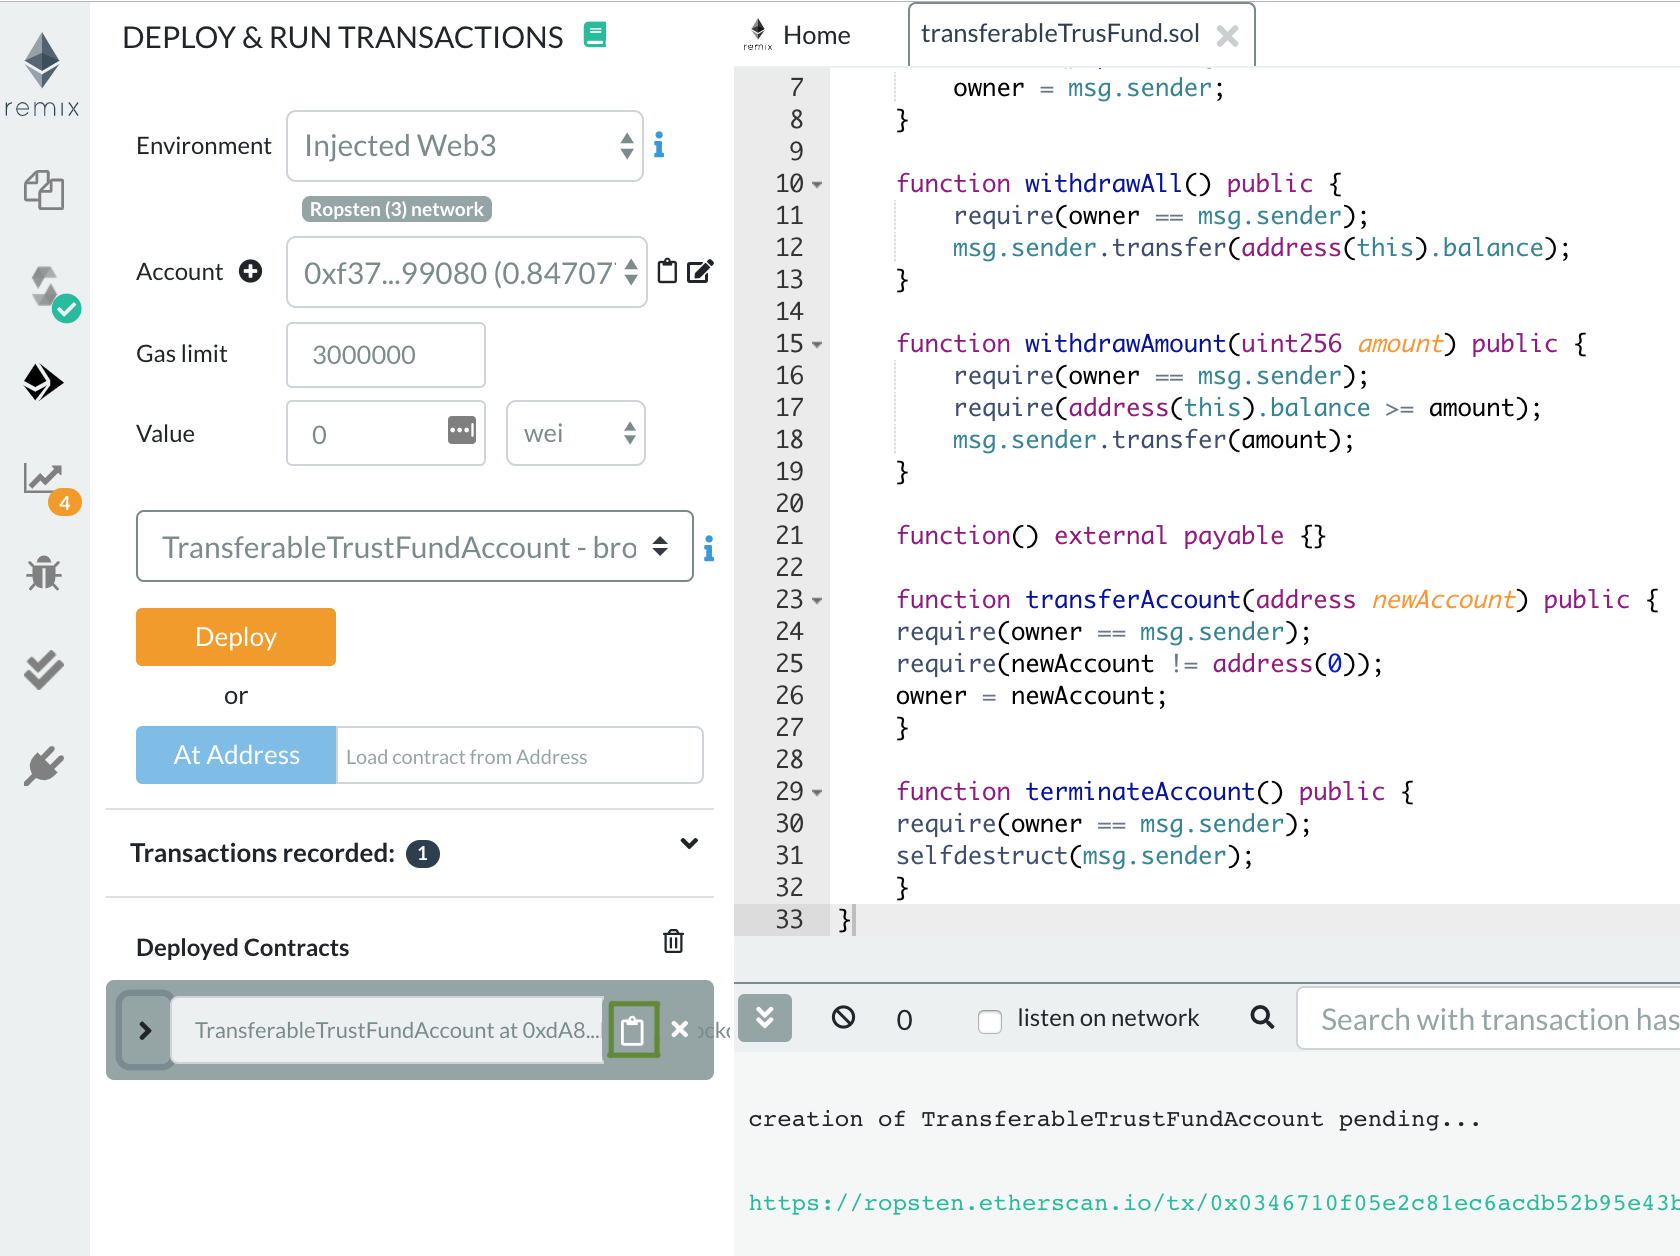
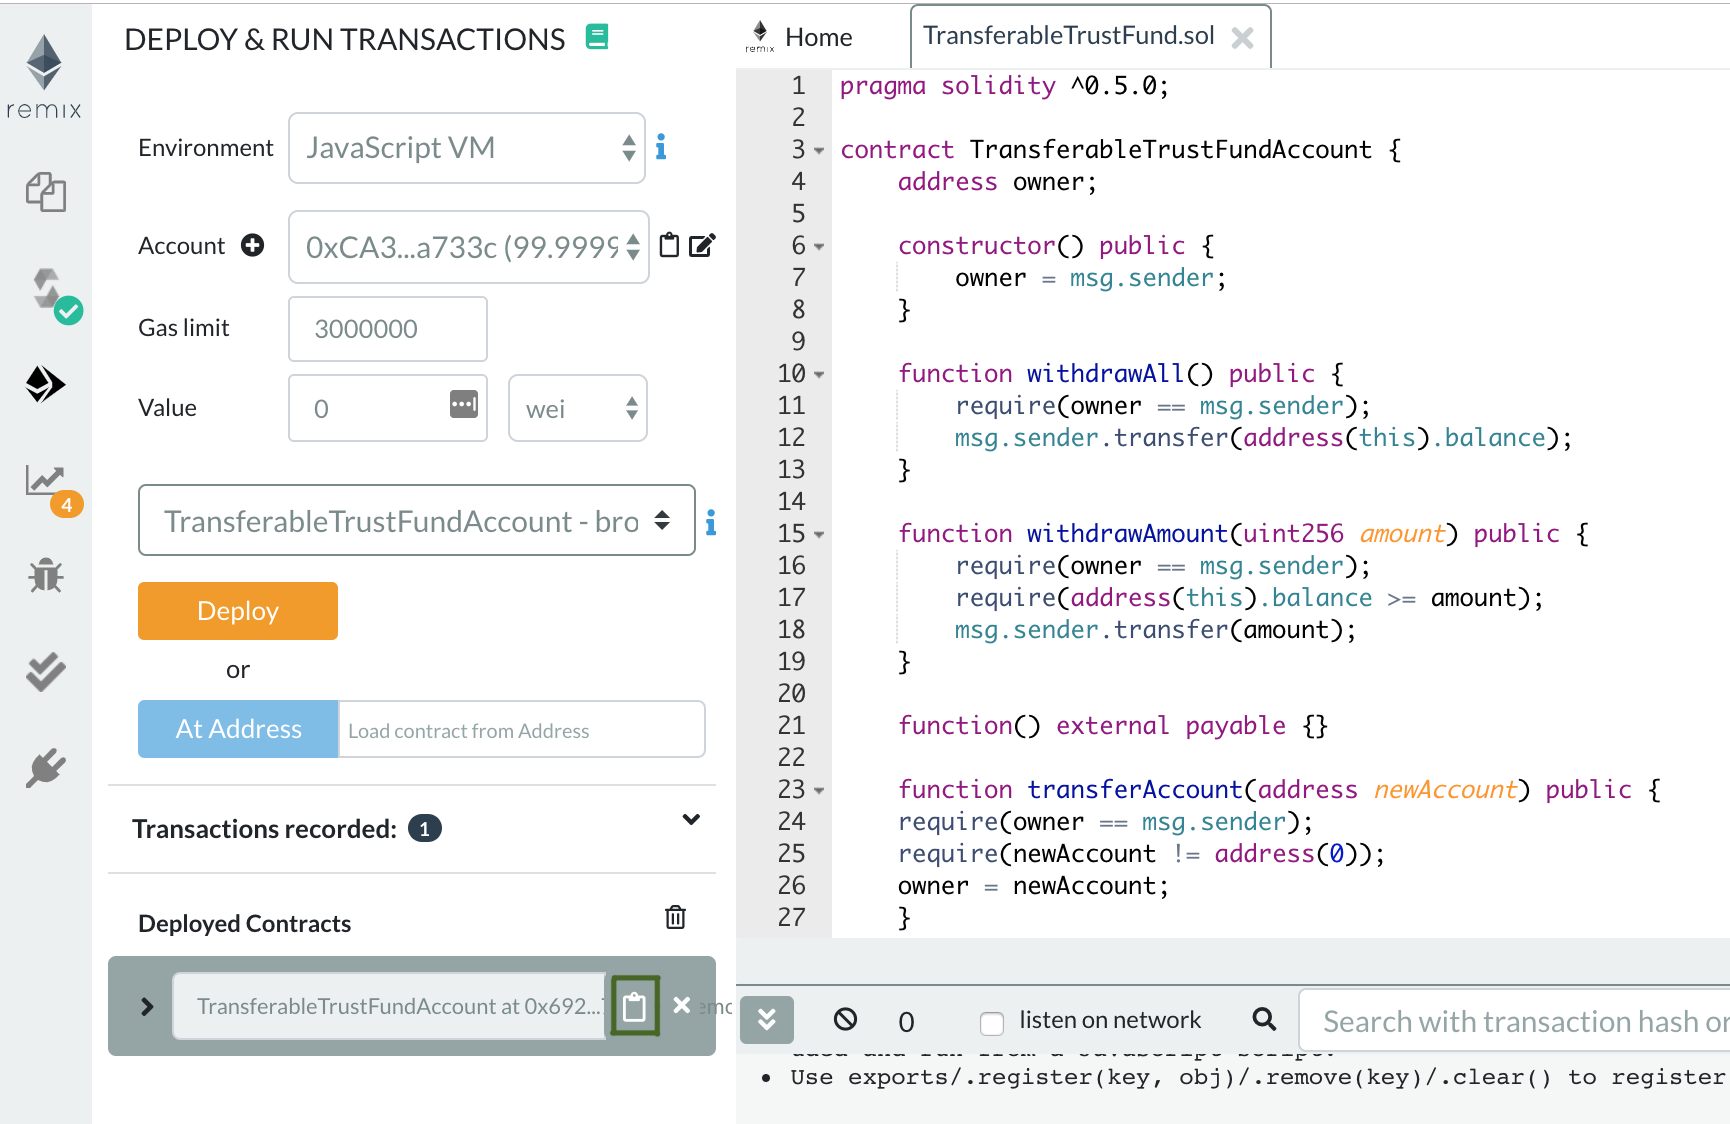
Add MetaMask description & cross-links
Added MetaMask + Remix description.
Added a screenshot on Remix injected web3.
Fixed all screenshots that had a typo.
Added crosslinks.
Added Remix to Tools.

Closes #117

diff --git a/docs/tutorials/food-supply-temperature-control-on-quorum.md b/docs/tutorials/food-supply-temperature-control-on-quorum.md
@@ -2,8 +2,11 @@
 
 In this tutorial, you will:
 
-* Create a contract for public transactions, deploy it on your [Quorum](/blockchains/quorum) network, and run a public transaction.
-* Create a contract for private transactions, deploy it on your Quorum network, and run a private transaction.
+* Create a contract that sets and retrieves through your [Quorum](/blockchains/quorum) nodes.
+* Deploy the contract on your Quorum network, and run a public transaction.
+* Deploy the contract on your Quorum network, and run a private transaction.
+* Deploy the contract on your Quorum network, externally sign a public transaction, and run the public transaction.
+* Deploy the contract on your Quorum network, externally sign a private transaction, and run the private transaction.
 
 The premise of the Quorum network in this tutorial is the following:
 
@@ -12,6 +15,8 @@ The premise of the Quorum network in this tutorial is the following:
 * The storage facility monitors the temperature of the products it stores and records the temperature readings to the contract on the Quorum network.
 * There is a public contract that allows any party to read the temperature off the contract.
 * There is a private contract that allows only a specifically set party to read the temperature off the contract.
+
+This tutorial uses [Quorum Tessera](https://docs.goquorum.com/en/latest/Privacy/Tessera/Tessera/) for private contracts.
 
 Sample code for this tutorial is in the [GitHub repository](https://github.com/chainstack/quorum-iot-tutorial).
 
@@ -33,6 +38,8 @@ To get from zero to a deployed Quorum network with a public contract and a priva
 * Create the contract.
 * Deploy the contract as public and run a public transaction.
 * Deploy the contract as private and run a private transaction.
+* Deploy the contract as public, externally sign the contract, and run a public transaction.
+* Deploy the contract as private, externally sign the contract, and run a private transaction.
 
 ## Prepare
 
@@ -47,6 +54,8 @@ See [Create a project](/platform/create-a-project).
 See [Deploy a consortium network](/platform/deploy-a-consortium-network).
 
 Deploy at least three nodes for this tutorial.
+
+See also [Quorum](/blockchains/quorum) for recommendations on the number of nodes.
 
 #### Get your Quorum node access and credentials
 
@@ -64,12 +73,8 @@ npm install web3
 
 The Solidity JavaScript compiler will compile the contract, the ABI, and bytecode formats that you will deploy on your Quorum network.
 
-::: warning
-This tutorial uses Solidity Compiler 0.4.25 for web3 compatibility.
-:::
-
 ``` sh
-npm install solc@0.4.25
+npm install solc
 ```
 
 ### Install and configure dotenv
@@ -83,18 +88,43 @@ npm install dotenv
 In your project folder, create an `.env` file:
 
 ``` js
+// Node 1
 RPC1='RPC_ENDPOINT'
-PK1='CONSTELLATION_PUBLIC_KEY'
+
+WALLET_ADDRESS1='DEFAULT_WALLET_ADDRESS'
+WALLET_KEY1='DEFAULT_WALLET_PRIVATE_KEY'
+
+TM_PUBLIC_KEY1='TRANSACTION_MANAGER_PUBLIC_KEY'
+TM1='TRANSACTION_MANAGER_ENDPOINT'
+
+// Node 2
 RPC2='RPC_ENDPOINT'
-PK2='CONSTELLATION_PUBLIC_KEY'
+
+WALLET_ADDRESS2='DEFAULT_WALLET_ADDRESS'
+WALLET_KEY2='DEFAULT_WALLET_PRIVATE_KEY'
+
+TM_PUBLIC_KEY2='TRANSACTION_MANAGER_PUBLIC_KEY'
+TM2='TRANSACTION_MANAGER_ENDPOINT'
+
+// Node 3
 RPC3='RPC_ENDPOINT'
-PK3='CONSTELLATION_PUBLIC_KEY'
+
+WALLET_ADDRESS3='DEFAULT_WALLET_ADDRESS'
+WALLET_KEY3='DEFAULT_WALLET_PRIVATE_KEY'
+
+TM_PUBLIC_KEY3='TRANSACTION_MANAGER_PUBLIC_KEY'
+TM3='TRANSACTION_MANAGER_ENDPOINT'
 ```
 
 where
 
-* RPC_ENDPOINT — your Quorum node RPC endpoint. The format is `https://user-name:pass-word-pass-word-pass-word@nd-123-456-789.p2pify.com`. See [View node access and credentials](/platform/view-node-access-and-credentials).
-* CONSTELLATION_PUBLIC_KEY — your Quorum node Constellation public key. Available under **Access and credentials** > **Transaction manager public key**.
+* RPC_ENDPOINT — your Quorum node RPC endpoint. The format is `https://user-name:pass-word-pass-word-pass-word@nd-123-456-789.p2pify.com`.
+* DEFAULT_WALLET_ADDRESS — your Quorum node default wallet address to deploy the contract. Available under **Access and credentials** > **Default wallet address**.
+* DEFAULT_WALLET_PRIVATE_KEY — a private key to your Quorum node default wallet address to sign the transaction. Available under **Access and credentials** > **Default wallet private key**.
+* TRANSACTION_MANAGER_PUBLIC_KEY — your Quorum node Tessera public key. The contract will use this key to make the contract private for the node that signs the contract transaction with the Tessera private key from this public-private key pair. Available under **Access and credentials** > **Transaction manager public key**.
+* TRANSACTION_MANAGER_ENDPOINT — an endpoint to the Tessera node deployed with your Quorum node. Available under **Access and credentials** > **Transaction manager endpoint**.
+
+See also [View node access and credentials](/platform/view-node-access-and-credentials).
 
 ## Create the contract
 

diff --git a/docs/tutorials/trust-fund-account-on-ethereum.md b/docs/tutorials/trust-fund-account-on-ethereum.md
@@ -26,8 +26,8 @@ For Ethereum mainnet, the steps are exactly the same, except that you would need
 ## Prerequisites
 
 * [Chainstack](https://console.chainstack.com/) account to deploy an Ethereum node.
-* [MetaMask](https://metamask.io/).
-* [Remix IDE](https://remix.ethereum.org/).
+* [Remix IDE](https://remix.ethereum.org/) to compile the contract and deploy through MetaMask.
+* [MetaMask](https://metamask.io/) to deploy the contract through Chainstack node and interact with the contract.
 
 ## Overview
 
@@ -60,7 +60,9 @@ See [View node access and credentials](/platform/view-node-access-and-credential
 
 See [Using MetaMask with Chainstack](/operations/ethereum/using-metamask-with-chainstack).
 
-Create at least two accounts in MetaMask.
+Having set up your MetaMask to interact through a Chainstack node, your Remix IDE will also interact with the network through a Chainstack node.
+
+Create at least two accounts in MetaMask. You need two accounts to transfer the contract ownership from one to another.
 
 In your MetaMask, fund each account with Ropsten ether by clicking **Deposit** > **Test Faucet** > **Get Ether**.
 
@@ -177,11 +179,15 @@ On the left pane, click **Solidity compiler** > **Compile**:
 
 ### Set up Remix IDE to work through your Chainstack node
 
-TTK
+On the left pane, click **Deploy** and switch to **Injected Web3**:
+
+![Inject](./assets/trust-fund-account-on-ethereum/remix-injected-web3.png)
+
+This will engage your MetaMask and interact with the network through the Chainstack node provided in MetaMask.
 
 ### Deploy the Trust Fund smart contract
 
-On the left pane, click **Deploy & run transactions** > **Deploy**: TTK
+On the left pane, click **Deploy & run transactions** > **Deploy**:
 
 ![Deploy](./assets/trust-fund-account-on-ethereum/remix-deploy.png)
 
@@ -211,6 +217,7 @@ Expand the contract under **Deployed Contracts**:
 ::: tip See also
 
 * [Operations: Ethereum](/operations/ethereum/)
+* [Using MetaMask with Chainstack](/operations/ethereum/using-metamask-with-chainstack)
 * [Asset tokenization on Ethereum](/tutorials/asset-tokenization-on-ethereum)
 * [Academic certificates on Ethereum](/tutorials/academic-certificates-on-ethereum)
 

diff --git a/docs/operations/ethereum/tools.md b/docs/operations/ethereum/tools.md
@@ -107,6 +107,17 @@ chainstack: {
 
 3. Run `embark run chainstack` and Embark will deploy using Chainstack.
 
+### Remix IDE
+
+To make Remix IDE interact with the network through a Chainstack node:
+
+1. Get [MetaMask](https://metamask.io/) and set it to interact through a Chainstack node. See [Using MetaMask with Chainstack](/operations/ethereum/using-metamask-with-chainstack).
+1. In Remix IDE, navigate to the **Deploy** tab. Select **Injected Web3** in **Environment**.
+
+This will engage MetaMask and make Remix IDE interact with the network through a Chainstack node.
+
+For a detailed tutorial with Remix IDE, see [Trust Fund account on Ethereum](/tutorials/trust-fund-account-on-ethereum).
+
 ::: tip See also
 
 * [Asset tokenization on Ethereum](/tutorials/asset-tokenization-on-ethereum)

diff --git a/docs/operations/ethereum/using-metamask-with-chainstack.md b/docs/operations/ethereum/using-metamask-with-chainstack.md
@@ -35,5 +35,6 @@ Your MetaMask will now interact through your Ethereum nodes deployed with Chains
 ::: tip See also:
 
 * [Tools](/operations/ethereum/tools)
+* [Trust Fund account on Ethereum](/tutorials/trust-fund-account-on-ethereum)
 
 :::
